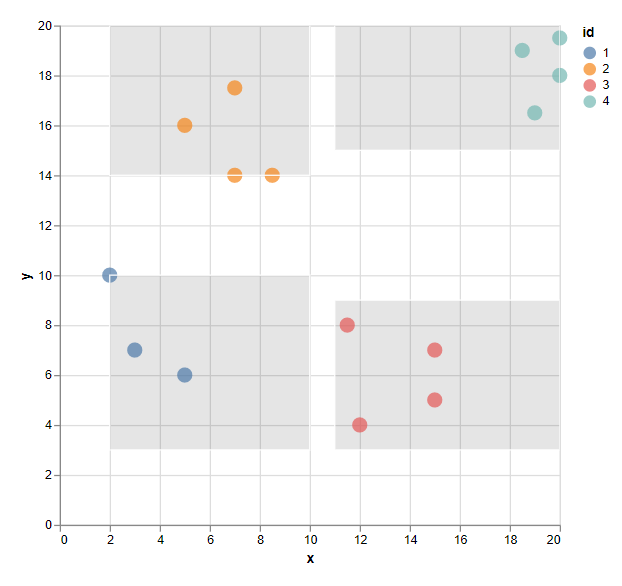
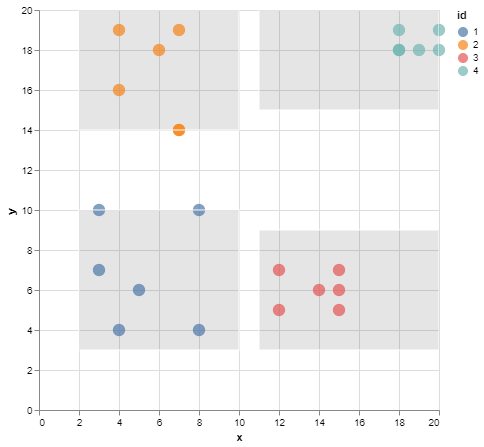
docs: update demo README

diff --git a/cmd/sigo/main.go b/cmd/sigo/main.go
@@ -195,6 +195,8 @@ func newAnonymizer(name string) sigo.Anonymizer {
 		return sigo.NewAggregationAnonymizer("mean")
 	case "medianAggregation":
 		return sigo.NewAggregationAnonymizer("median")
+	case "outlier":
+		return sigo.NewCodingAnonymizer()
 	default:
 		return sigo.NewNoAnonymizer()
 	}

diff --git a/README.md b/README.md
@@ -63,20 +63,15 @@ The following flags can be used:
 - `--l-value,-l <int>`, allows to choose the value of l for **l-diversity** (default value is `1`).
 - `--quasi-identifier,-q <strings>`, this flag lists the quasi-identifiers of the dataset.
 - `--sensitive,-s <strings>`, this flag lists the sensitive attributes of the dataset.
-<<<<<<< HEAD
 - `--anonymizer,-a <string>`, allows to choose the method used for data anonymization (default value is `"NoAnonymizer"`). Choose from the following list [`"general"`, `"meanAggregation"`, `"medianAggregation"`, `"outlier"`, `"laplaceNoise"`, `"gaussianNoise"`].
 - `--cluster-info,-i <string>`, allows to display information about cluster.
 - `--entropy <bool>`, allows to choose if entropy model for l-diversity used.
-=======
-- `--anonymizer,-a <string>`, allows you to choose the method used for data anonymization (default value is `"NoAnonymizer"`). Choose from the following list [`"general"`, `"meanAggregation"`, `"medianAggregation"`, `"outlier"`, `"laplaceNoise"`, `"gaussianNoise"`].
->>>>>>> 5f10797 (docs: add demo in examples)
 
 ## DEMO
 
 The `data.json` file contains the following data,
 
 ```json
-<<<<<<< HEAD
     {"x": 5, "y": 6},
     {"x": 3, "y": 7},
     {"x": 4, "y": 4},
@@ -101,28 +96,10 @@ The `data.json` file contains the following data,
     {"x": 18, "y": 18},
     {"x": 14, "y": 18},
     {"x": 19, "y": 15}
-=======
-    {"x": 20, "y": 20},
-    {"x": 3, "y": 16},
-    {"x": 18, "y": 19},
-    {"x": 15, "y": 5},
-    {"x": 15, "y": 7},
-    {"x": 7, "y": 19},
-    {"x": 2, "y": 10},
-    {"x": 7, "y": 14},
-    {"x": 20, "y": 18},
-    {"x": 10, "y": 14},
-    {"x": 11, "y": 9},
-    {"x": 3, "y": 7},
-    {"x": 19, "y": 15},
-    {"x": 5, "y": 6},
-    {"x": 12, "y": 3}
->>>>>>> 5f10797 (docs: add demo in examples)
 ```
 
 ### Generalization
 
-<<<<<<< HEAD
 - **1st step:**
   Train the clusters without the anonymization step using the `NoAnonymizer` method and visualize them using `--cluster-info,i`.
 
@@ -161,23 +138,10 @@ The `data.json` file contains the following data,
     "x": [2,10],
     "y": [3,10]
   },
-=======
-- 1st step: cluster data using an id and `NoAnonymizer` method.
-
-```console
-< data.json | jq -c '.[]' | sigo -q x,y -i id | jq -s > clusters.json
-```
-
-- 2nd step: generalizing the clusters using `general` method.
-
-```console
-< data.json | jq -c '.[]' | sigo -q x,y -a general -i id | jq -s > generalization.json
->>>>>>> 5f10797 (docs: add demo in examples)
 ```
 
 ![clusters](./examples/demo/clusters.png)
 
-<<<<<<< HEAD
 ### Aggregation
 
 ```console
@@ -191,6 +155,14 @@ The `data.json` file contains the following data,
 ```
 
 ![medianAggregation](./examples/demo/aggregation/medianAggregation.png)
+
+### Top and Botton Codding
+
+```console
+< data.json | jq -c '.[]' | sigo -k 6 -q x,y -a outlier -i id | jq -s > top-bottom-coding/coding.json
+```
+
+![coding](./examples/demo/top-bottom-coding/coding.png)
 
 ## Usage of **PIMO**
 
@@ -253,12 +225,3 @@ DataSet after sequencing:
 (After de-identification with **SIGO**, the operation can be undone with another call to **PIMO**. Original values will be saved, using caches for example.)
 
 Dates can be easily transformed into a sequence of floats, but one can imagine categories like colors, origin (if not a sensitive value), or even genders.
-=======
-### Top and Botton Codding
-
-```console
-< data.json | jq -c '.[]' | sigo -q x,y -a coding -i id | jq -s > top-bottom-coding/coding.json
-```
-
-![coding](./examples/demo/top-bottom-coding/coding.png)
->>>>>>> 5f10797 (docs: add demo in examples)
